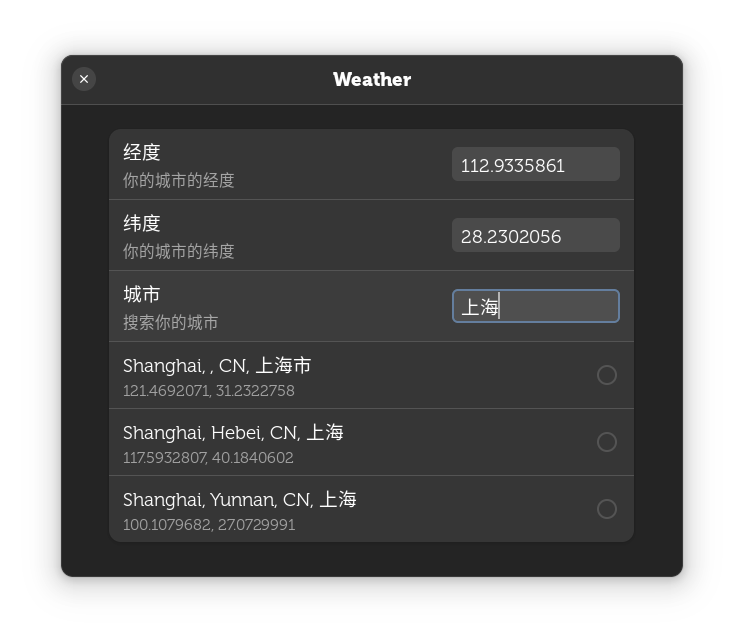
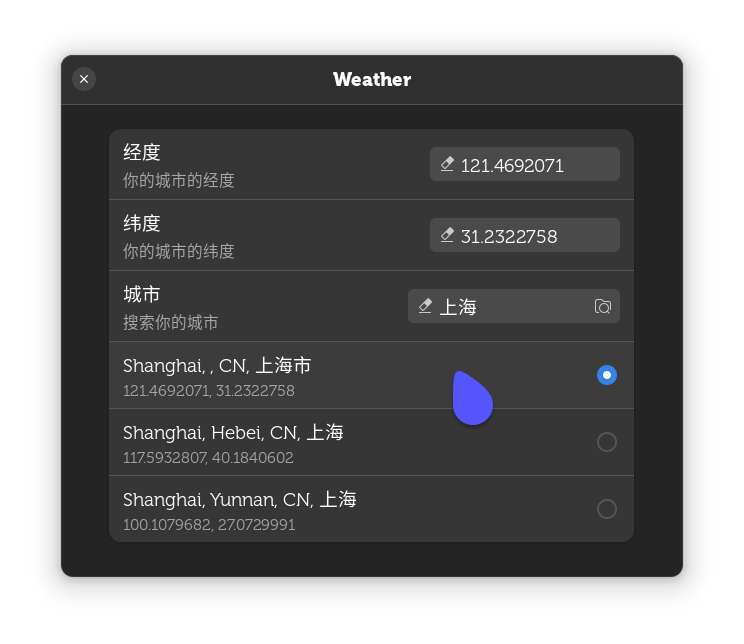
city.length < 2

diff --git a/prefs.js b/prefs.js
@@ -31,8 +31,6 @@ class MyPrefs extends Adw.PreferencesGroup {
 
 		this._longitude = new Gtk.Entry();
 		this._latitude = new Gtk.Entry();
-		//~ this._longitude.connect('icon-press', this.icon_press.bind(this));
-		//~ this._latitude.connect('icon-press', this.icon_press.bind(this));
 		[
 			[ this._longitude, true, _('longitude'), _('longitude of your city'), 'longitude' ],
 			[ this._latitude, true, _('latitude'), _('latitude of your city'), 'latitude' ]]
@@ -43,19 +41,11 @@ class MyPrefs extends Adw.PreferencesGroup {
 		});
 		this.add(new MyRow(this._input, true, _('City'), _('search your city'), ''));
 		this._input.connect('activate', this.get_web.bind(this));
-		//~ this._input.connect('icon-press', this.icon_press.bind(this));
 	}
-
-	//~ icon_press(obj, pos, event){
-		//~ if (pos == Gtk.EntryIconPosition.PRIMARY) obj.text = '';
-		//~ else {
-			//~ if (obj.secondary_icon_activatable) this.get_web();
-		//~ }
-	//~ };
 
 	get_web() {	//调用 PreferencesGroup 控件多，不能移到类的外部。
 		const city = this._input.text;
-		if (city == '' || city.length < 3) return;
+		if (city == '' || city.length < 2) return;
 		let params = {
 			appid : 'c93b4a667c8c9d1d1eb941621f899bb8',
 			limit : '3',
